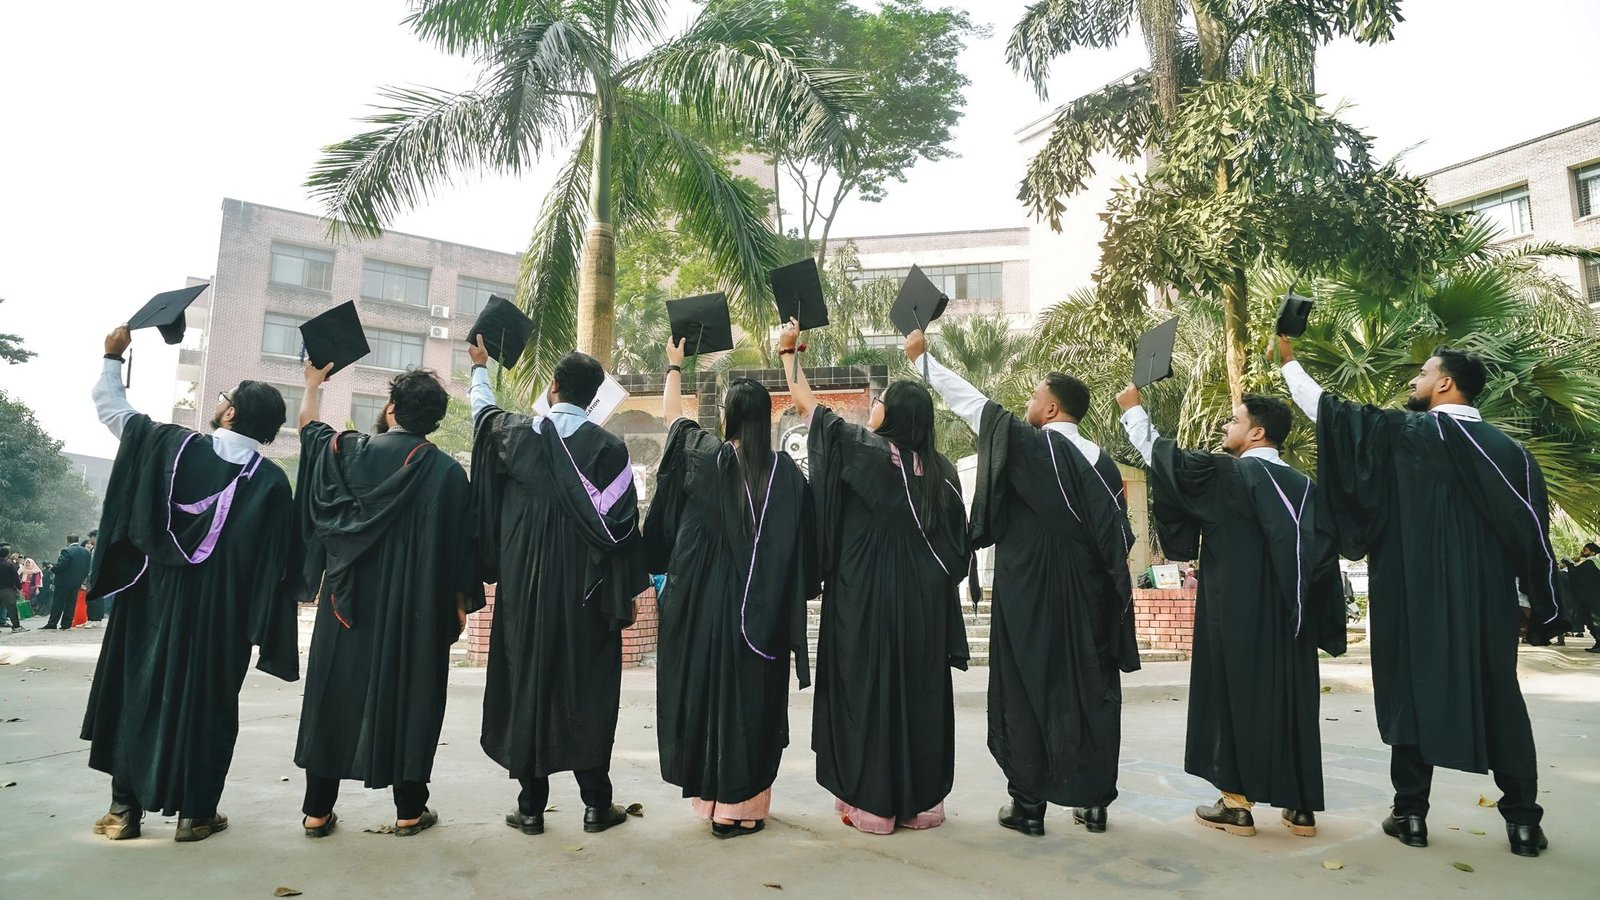
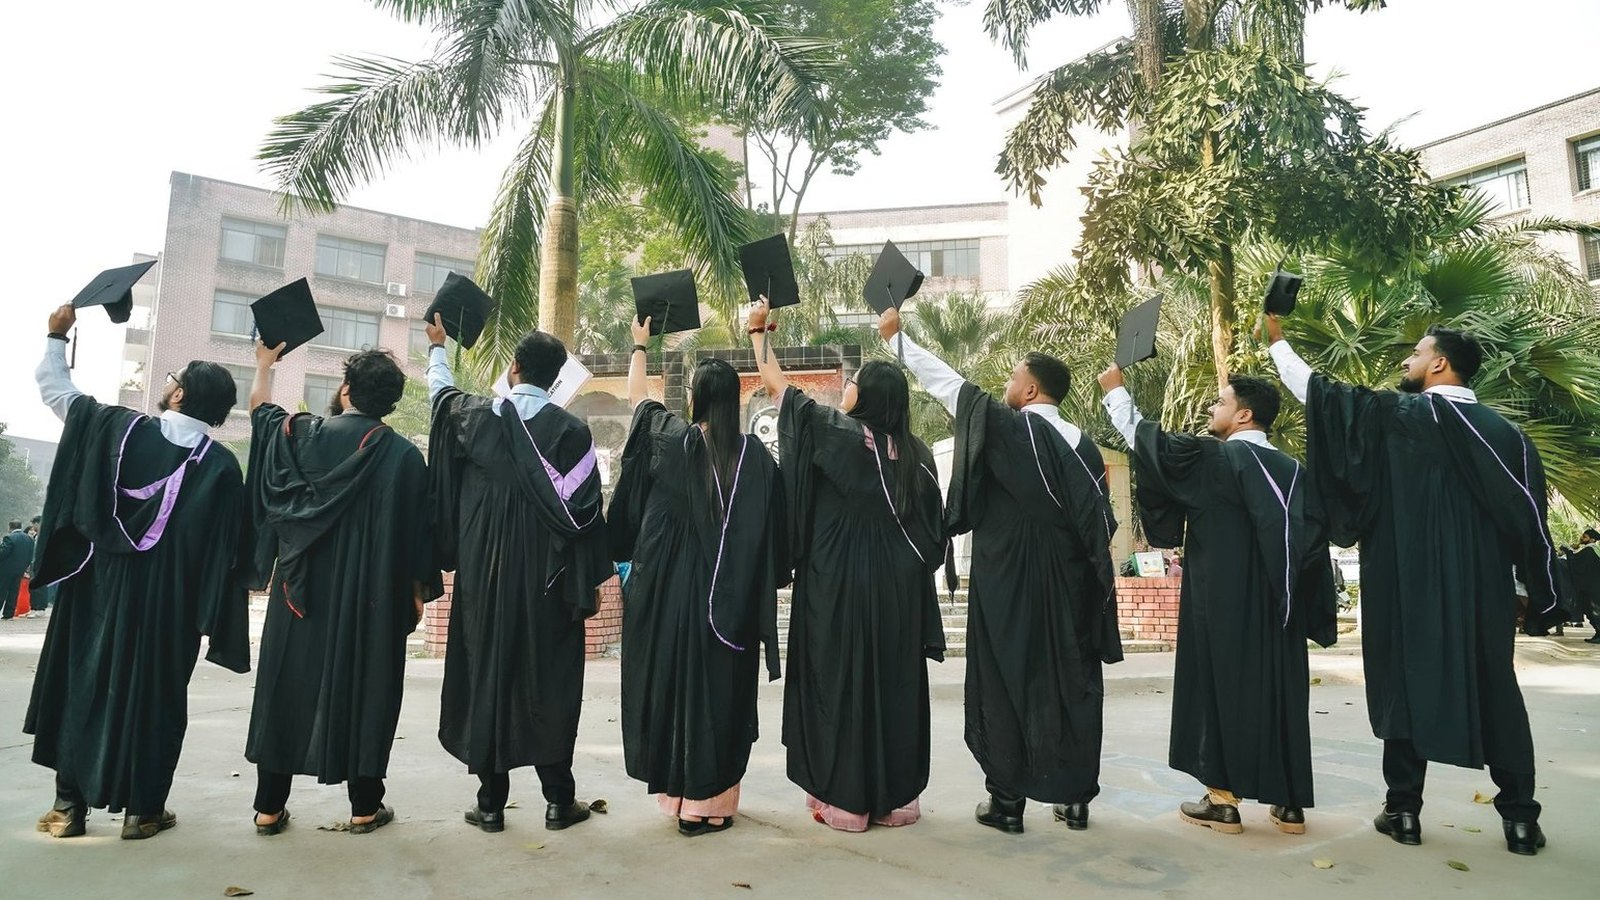
Rework site photos: no children, adults 22+, natural student look
- Why families: real graduate (why-student.jpg) instead of a posed portrait
- Honest help: smiling young woman with a clipboard (trust-welcome.jpg)
- Collateral: model house, keys and a property document, text blurred
- Consultation: young woman with headphones at her laptop (consult-online.jpg)
- Intro: laptop brand logo removed (intro-students.jpg)
- Final CTA: left edge cropped so a background headscarf is out of frame
- Hero: book logo and title blurred (hero-student.webp)
- New photos use new filenames so cached images don't linger

diff --git a/edfinco-site/app/page.tsx b/edfinco-site/app/page.tsx
@@ -290,8 +290,8 @@ export default function HomePage() {
             <div className={styles.trustLayout}>
               <div className={styles.trustMedia}>
                 <Image
-                  src="/photos/trust.jpg"
-                  alt="A mother and her daughter reading a book together on the sofa"
+                  src="/photos/trust-welcome.jpg"
+                  alt="A smiling young woman with a clipboard, sitting in a bright, modern lounge"
                   width={800}
                   height={800}
                   sizes="(max-width: 860px) 360px, 460px"
@@ -365,7 +365,7 @@ export default function HomePage() {
               <div className={styles.collateralMedia}>
                 <Image
                   src="/photos/collateral.jpg"
-                  alt="A smiling mother, father and daughter standing together outdoors"
+                  alt="A model house and a set of keys resting on a property document"
                   width={1200}
                   height={900}
                   sizes="(max-width: 820px) 100vw, 480px"
@@ -446,8 +446,8 @@ export default function HomePage() {
             <div className={styles.whyCard}>
               <div className={styles.whyMedia}>
                 <Image
-                  src="/photos/why-graduate.jpg"
-                  alt="A smiling graduate in her gown and hood, resting her chin on her hand"
+                  src="/photos/why-student.jpg"
+                  alt="A smiling graduate in his gown, raising his cap outside his university"
                   fill
                   sizes="(max-width: 860px) 100vw, 680px"
                   quality={85}

diff --git a/edfinco-site/app/consultation/page.tsx b/edfinco-site/app/consultation/page.tsx
@@ -46,8 +46,8 @@ export default async function ConsultationPage() {
             </div>
             <div className={styles.heroMedia}>
               <Image
-                src="/photos/consult-call.jpg"
-                alt="A young woman smiling and waving on a video call at her desk"
+                src="/photos/consult-online.jpg"
+                alt="A young woman wearing headphones, working on her laptop by an office window"
                 width={960}
                 height={1200}
                 sizes="(max-width: 900px) 0px, 380px"

diff --git a/edfinco-site/lib/blog-images.ts b/edfinco-site/lib/blog-images.ts
@@ -7,7 +7,7 @@ export interface BlogImage {
 }
 
 export const BLOG_IMAGES: BlogImage[] = [
-  { src: "/photos/collateral.jpg", alt: "A smiling mother, father and daughter standing together outdoors" },
+  { src: "/photos/collateral.jpg", alt: "A model house and a set of keys resting on a property document" },
   { src: "/photos/how.jpg", alt: "An application form on a clipboard beside a laptop" },
   {
     src: "/photos/consult-family.jpg",

diff --git a/edfinco-site/lib/content.ts b/edfinco-site/lib/content.ts
@@ -269,7 +269,7 @@ export const HOME: HomeContent = {
     closing: `Free guidance. Multiple lending options. Your choice.`,
     // Client change doc, item 8 (2026-11-17): a photo that matches this text.
     image: {
-      src: `/photos/intro.jpg`,
+      src: `/photos/intro-students.jpg`,
       alt: `Two students sitting on a bench, comparing options together on a laptop`,
     },
   },

diff --git a/edfinco-site/app/home.module.css b/edfinco-site/app/home.module.css
@@ -648,8 +648,8 @@
 }
 .whyImg {
   object-fit: cover;
-  /* public/photos/why-graduate.jpg: her face and hood stay in frame in the tall panel */
-  object-position: 50% 30%;
+  /* public/photos/why-student.jpg: his face and raised cap stay in frame in the tall panel */
+  object-position: 68% 30%;
 }
 /* inside the card the table drops its own card styling */
 .whyCard .compare {

diff --git a/edfinco-site/components/HeroArt.tsx b/edfinco-site/components/HeroArt.tsx
@@ -39,7 +39,7 @@ export default function HeroArt({ badges = [] }: { badges?: HeroBadge[] }) {
       </svg>
 
       <Image
-        src="/photos/hero-cutout.webp"
+        src="/photos/hero-student.webp"
         alt="A smiling student with a backpack and books"
         width={1000}
         height={1437}

diff --git a/edfinco-site/public/photos/CREDITS.md b/edfinco-site/public/photos/CREDITS.md
@@ -7,9 +7,8 @@ EdFinco customers and must never be captioned as testimonials or outcomes.
 
 | File | Pexels photo |
 |---|---|
-| hero.jpg, og.jpg | https://www.pexels.com/photo/7616706/ |
-| trust.jpg | https://www.pexels.com/photo/7104388/ (square crop; replaced 2026-11-17, client change doc item 12) |
-| final-cta.jpg | https://www.pexels.com/photo/37410978/ |
+| hero.jpg, og.jpg | https://www.pexels.com/photo/7616706/ (the logo and title on the book are blurred, 2026-11-17) |
+| final-cta.jpg | https://www.pexels.com/photo/37410978/ (left edge cropped 2026-11-17 so a background figure in a headscarf is out of frame) |
 | dest/usa.jpg | https://www.pexels.com/photo/9314117/ |
 | dest/canada.jpg | https://www.pexels.com/photo/13420120/ |
 | dest/uk.jpg | https://www.pexels.com/photo/17193910/ |
@@ -22,13 +21,16 @@ EdFinco customers and must never be captioned as testimonials or outcomes.
 | advisor-meeting.jpg | https://www.pexels.com/photo/8292887/ |
 | how.jpg | https://www.pexels.com/photo/4101416/ (16:9 crop; replaced 2026-11-17, client change doc item 9; since 2026-11-17 only the documents-checklist blog image) |
 | how-planning.jpg | https://www.pexels.com/photo/9159664/ (16:9 crop; added 2026-11-17 for the "How it works" section; same photo shoot as consult-family.jpg) |
-| collateral.jpg | https://www.pexels.com/photo/38777048/ (4:3 crop; replaced 2026-11-17, client change doc item 12) |
-| consult-call.jpg | https://www.pexels.com/photo/8837777/ |
 | consult-family.jpg | https://www.pexels.com/photo/9159064/ (replaced 2026-11-17, client change doc item 12) |
-| hero-cutout.webp | https://www.pexels.com/photo/7616706/ (same photo as hero.jpg; background removed locally with the open-source ISNet model, 2026-11-12) |
-| why-graduate.jpg | https://www.pexels.com/photo/32041555/ (cropped above the wrist so a black cord bracelet is out of frame; added 2026-11-17, replaces why-portrait.jpg at the user's request) |
-| intro.jpg | https://www.pexels.com/photo/15598638/ (added 2026-11-17, client change doc item 8) |
+| hero-student.webp | https://www.pexels.com/photo/7616706/ (same photo as hero.jpg; background removed locally with the open-source ISNet model, 2026-11-12; the book's logo and title blurred 2026-11-17, renamed from hero-cutout.webp) |
+| intro-students.jpg | https://www.pexels.com/photo/15598638/ (added 2026-11-17, client change doc item 8; laptop brand logo removed and renamed from intro.jpg, 2026-11-17) |
+| trust-welcome.jpg | https://www.pexels.com/photo/7688183/ (square crop; added 2026-11-17, replaces trust.jpg: no children in site photos) |
+| collateral.jpg | https://www.pexels.com/photo/12955837/ (4:3 crop, the document's text and barcode digits blurred; replaced 2026-11-17: no children in site photos) |
+| why-student.jpg | https://www.pexels.com/photo/14509172/ (cropped; added 2026-11-17, replaces why-graduate.jpg: a natural student look, not a model shoot) |
+| consult-online.jpg | https://www.pexels.com/photo/34224997/ (4:5 crop; added 2026-11-17, replaces consult-call.jpg: henna and carved figurines) |
 
 Photo rules (client, 2026-11-17): no visible religious markers (hijab, turban, bindi, sacred threads,
 religious text or institution names) and modest clothing (no sleeveless or low-cut tops), so the site
 looks neutral to every community. Blur any real name or readable text on documents in a photo.
+Also (user, 2026-11-17): no children; everyone pictured should look 22 or older; people should look like
+real students or families, not glamour/model shoots; no brand logos (blur or remove them).

diff --git a/.claude/skills/edfinco-web/SKILL.md b/.claude/skills/edfinco-web/SKILL.md
@@ -30,7 +30,11 @@ ALWAYS:
   boxes back to sections or pages; copy that explains the business may still say it in its own words.
 - Photos: no visible religious markers (hijab, turban, bindi, sacred threads, religious text or institution
   names) and modest clothing (no sleeveless/low-cut tops). The client flagged both on 2026-11-17. Real
-  names or text on documents in a photo get blurred.
+  names or text on documents in a photo get blurred. Also (user, 2026-11-17): no children, everyone
+  pictured looks 22+, people look like real students/families (not glamour or model shoots), and brand
+  logos are blurred or removed. Replacing a photo that stays at the same URL can show the old picture for
+  hours (Next 16 caches optimized images for 4 h), so give a new photo a new filename unless a blog post
+  links to the old path (`lib/blog-images.ts`).
 - "No collateral does not mean guaranteed approval" wherever collateral-free is mentioned.
 - On any Maya content: "Maya is fictional"; on any AI-made media: "Created using AI".
 - Leave owner-action items as visible `{/* Owner action required: ... */}` comments (legal entity name,

diff --git a/edfinco-site/content/blog/collateral-vs-collateral-free-education-loans.md b/edfinco-site/content/blog/collateral-vs-collateral-free-education-loans.md
@@ -5,7 +5,7 @@ date: "2026-11-10"
 author: "EdFinco Team"
 tags: ["Education loans", "Collateral", "Co-borrowers", "Parents"]
 image: "/photos/collateral.jpg"
-imageAlt: "A smiling mother, father and daughter standing together outdoors"
+imageAlt: "A model house and a set of keys resting on a property document"
 status: "published"
 ---
 
